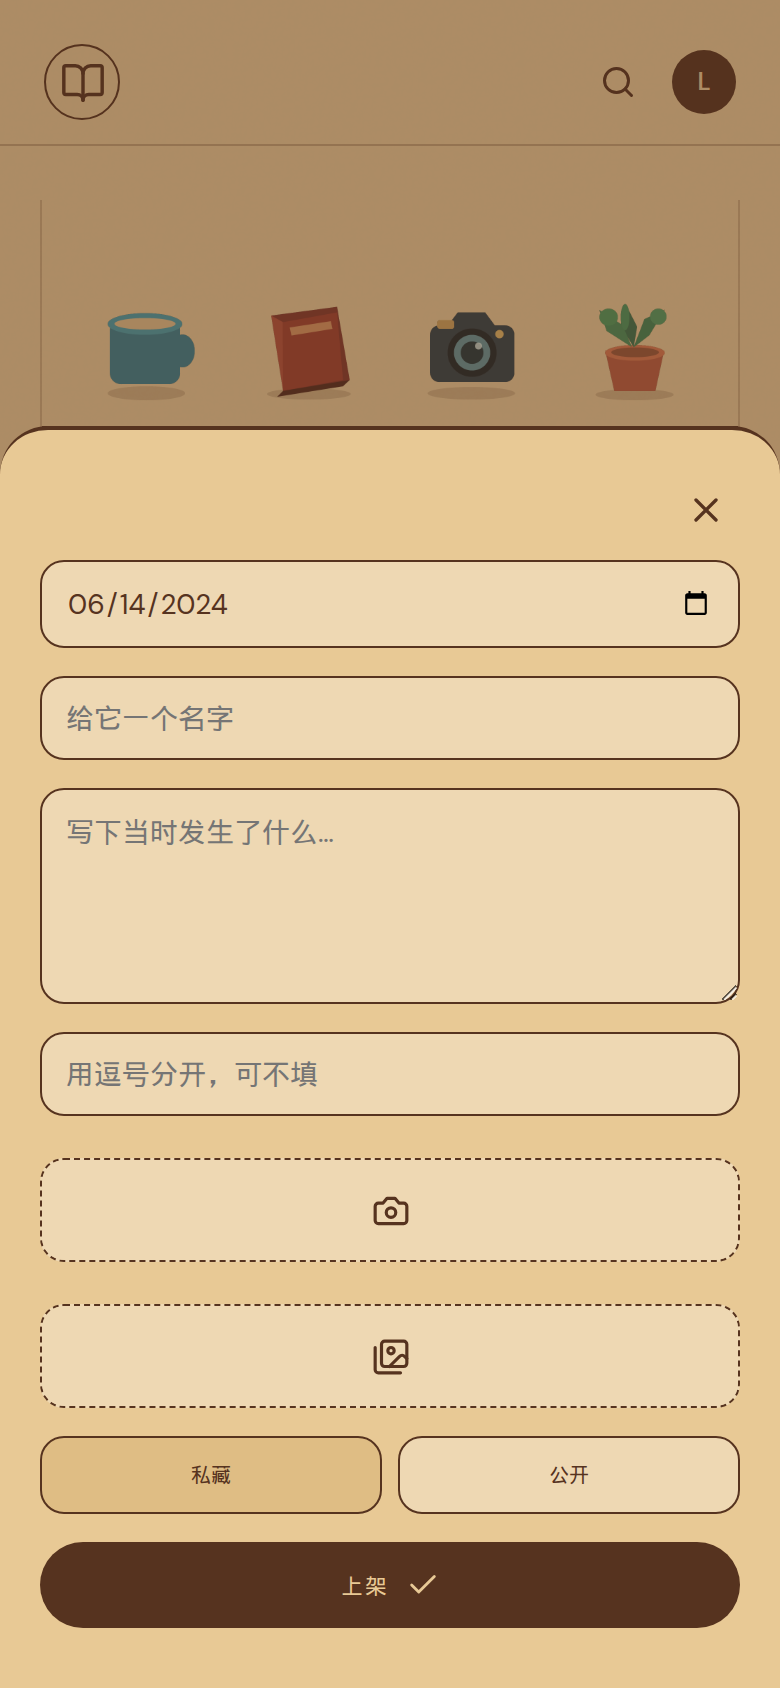
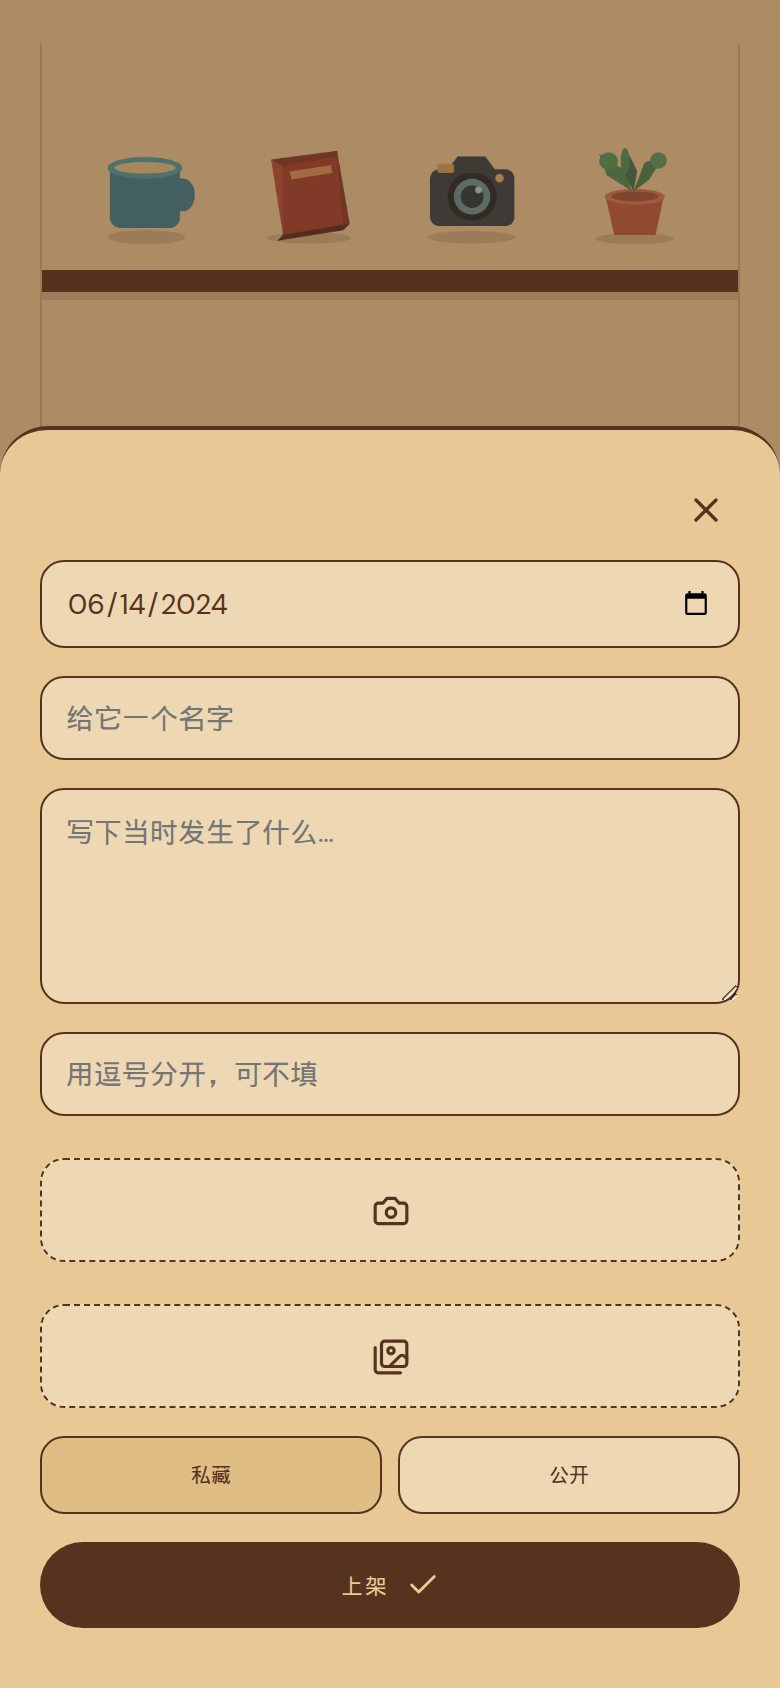
fix: show book/search header only on the shelf
Keep the top bar off album, friends, me, chronicle, parchment, and the add sheet. Drop the L avatar from chrome, put settings next to logout on Me, and place add-friend beside name search on Friends.

diff --git a/app/page.tsx b/app/page.tsx
@@ -12,7 +12,6 @@ import {
   Images,
   Layers,
   LogOut,
-  Mail,
   MessageCircle,
   Plus,
   Search,
@@ -69,7 +68,31 @@ export default function Home() {
     setShelfObjects((current) => [item, ...current]);
     setStories((current) => [story, ...current]);
   };
-  return <main className="app-shell"><header className="topbar"><Brand onBook={() => { setTimeline(true); setTab("shelf"); }}/><div className="top-actions"><button className="round-action" aria-label="搜索" onClick={() => notify("搜索功能即将开放")}><Search size={18}/></button><button className="avatar" onClick={() => setTab("me")} aria-label="打开个人资料">L</button></div></header><div className="content-area">{timeline ? <TimelineView stories={stories} onOpen={openReader} onBack={() => setTimeline(false)} /> : tab === "shelf" ? <ShelfView items={shelfObjects} stories={stories} onOpen={openReader} onAdd={() => setShowAdd(true)} /> : tab === "gallery" ? <GalleryView stories={stories} onOpen={openReader} commentStory={commentStory} setCommentStory={setCommentStory} notify={notify}/> : tab === "friends" ? <FriendsView notify={notify}/> : <MeView notify={notify}/>}</div><nav className="bottom-nav" aria-label="主导航"><NavItem active={tab === "shelf" && !timeline} icon={<Layers size={20}/>} label="打开首页" onClick={() => { setTab("shelf"); setTimeline(false); }}/><NavItem active={tab === "gallery"} icon={<Images size={20}/>} label="打开相册" onClick={() => { setTab("gallery"); setTimeline(false); }}/><button className="add-button" onClick={() => setShowAdd(true)} aria-label="新增物品"><Plus size={24}/></button><NavItem active={tab === "friends"} icon={<Users size={20}/>} label="打开朋友" onClick={() => { setTab("friends"); setTimeline(false); }}/><NavItem active={tab === "me"} icon={<CircleUserRound size={20}/>} label="打开个人资料" onClick={() => { setTab("me"); setTimeline(false); }}/></nav>{showAdd && <AddStory onClose={() => setShowAdd(false)} onAdd={addStory} notify={notify}/>} {notice && <div className="toast"><Check size={16}/> {notice}</div>}</main>;
+  const showShelfHeader = tab === "shelf" && !timeline && !showAdd;
+  return (
+    <main className={`app-shell${showShelfHeader ? "" : " app-shell-plain"}`}>
+      {showShelfHeader && (
+        <header className="topbar">
+          <Brand onBook={() => { setTimeline(true); setTab("shelf"); }} />
+          <div className="top-actions">
+            <button className="round-action" aria-label="搜索" onClick={() => notify("搜索功能即将开放")}><Search size={18} /></button>
+          </div>
+        </header>
+      )}
+      <div className="content-area">
+        {timeline ? <TimelineView stories={stories} onOpen={openReader} onBack={() => setTimeline(false)} /> : tab === "shelf" ? <ShelfView items={shelfObjects} stories={stories} onOpen={openReader} onAdd={() => setShowAdd(true)} /> : tab === "gallery" ? <GalleryView stories={stories} onOpen={openReader} commentStory={commentStory} setCommentStory={setCommentStory} notify={notify} /> : tab === "friends" ? <FriendsView notify={notify} /> : <MeView notify={notify} />}
+      </div>
+      <nav className="bottom-nav" aria-label="主导航">
+        <NavItem active={tab === "shelf" && !timeline} icon={<Layers size={20} />} label="打开首页" onClick={() => { setTab("shelf"); setTimeline(false); }} />
+        <NavItem active={tab === "gallery"} icon={<Images size={20} />} label="打开相册" onClick={() => { setTab("gallery"); setTimeline(false); }} />
+        <button className="add-button" onClick={() => setShowAdd(true)} aria-label="新增物品"><Plus size={24} /></button>
+        <NavItem active={tab === "friends"} icon={<Users size={20} />} label="打开朋友" onClick={() => { setTab("friends"); setTimeline(false); }} />
+        <NavItem active={tab === "me"} icon={<CircleUserRound size={20} />} label="打开个人资料" onClick={() => { setTab("me"); setTimeline(false); }} />
+      </nav>
+      {showAdd && <AddStory onClose={() => setShowAdd(false)} onAdd={addStory} notify={notify} />}
+      {notice && <div className="toast"><Check size={16} /> {notice}</div>}
+    </main>
+  );
 }
 
 function chunkRows(items: ShelfObject[]) {
@@ -147,10 +170,10 @@ function FriendsView({ notify }: { notify: (message: string) => void }) {
   ];
   return (
     <section className="view friends-view" aria-label="朋友">
-      <div className="view-heading view-heading-end">
-        <button className="add-friend" onClick={() => notify("邀请链接已复制")} aria-label="邀请"><UserPlus size={17} /></button>
+      <div className="friends-toolbar">
+        <button className="add-friend" onClick={() => notify("邀请链接已复制")} aria-label="邀请"><UserPlus size={18} /></button>
+        <div className="search-field"><Search size={17} /><input value={query} onChange={(e) => setQuery(e.target.value)} placeholder="搜索姓名" aria-label="搜索姓名" /></div>
       </div>
-      <div className="search-field"><Search size={17} /><input value={query} onChange={(e) => setQuery(e.target.value)} placeholder="搜索姓名" aria-label="搜索姓名" /></div>
       <div className="friend-list">
         {people.filter((p) => `${p.name} ${p.handle}`.toLowerCase().includes(query.toLowerCase())).map((person) => (
           <div className="friend-row" key={person.handle}>
@@ -167,11 +190,7 @@ function FriendsView({ notify }: { notify: (message: string) => void }) {
 function MeView({ notify }: { notify: (message: string) => void }) {
   return (
     <section className="view me-view" aria-label="个人资料">
-      <div className="view-heading view-heading-end">
-        <button className="icon-button" onClick={() => notify("设置功能即将开放")} aria-label="设置"><Settings size={19} /></button>
-      </div>
       <div className="profile-card">
-        <span className="profile-avatar">L</span>
         <div><h2>Laura Hanjing</h2><p>@laura · 2024</p></div>
         <button className="quiet-button" onClick={() => notify("资料编辑功能即将开放")}>编辑</button>
       </div>
@@ -181,7 +200,7 @@ function MeView({ notify }: { notify: (message: string) => void }) {
         <div><strong>04</strong><span>朋友</span></div>
       </div>
       <div className="settings-list">
-        <button onClick={() => notify("邮箱已验证")}><Mail size={18} /><span>laura@example.com</span><Check size={17} /></button>
+        <button onClick={() => notify("设置功能即将开放")}><Settings size={18} /><span>设置</span><ChevronRight size={17} /></button>
         <button onClick={() => signOut({ callbackUrl: "/login" })}><LogOut size={18} /><span>退出</span><ChevronRight size={17} /></button>
       </div>
     </section>

diff --git a/app/globals.css b/app/globals.css
@@ -477,7 +477,11 @@ body{font-family:'DM Sans','Noto Sans SC',sans-serif}
 .add-sheet .visibility{display:grid;grid-template-columns:1fr 1fr;gap:8px}
 .add-sheet .visibility button{padding:12px;text-align:center}
 .upload-box{justify-content:center;min-height:52px}
-.toast{bottom:108px}
+.friends-toolbar{display:flex;align-items:center;gap:10px;margin:0 0 6px}
+.friends-toolbar .add-friend{flex:none;padding:8px 2px;min-width:36px;min-height:36px}
+.friends-toolbar .search-field{flex:1;min-width:0;margin:0;padding:10px 0 8px}
+.me-view .profile-card{margin-top:4px}
+.app-shell-plain .content-area{padding-top:22px}
 @media(min-width:721px){
   .bottom-nav,.shell .bottom-nav{bottom:22px}
   .app-shell,.shell{padding-bottom:126px}

diff --git a/design.md b/design.md
@@ -6,13 +6,13 @@
 
 以下七个入口组成 MVP 的完整路径。入口名称是设计与代码约定；实际界面只保留必要的图标和短文案，并继续遵守本文的禁词规则。
 
-1. **架子（首页）**：首页只陈列扣好的透明物品，每行固定四格且格内无字。每个物格点击后进入同一条记录的羊皮纸详情。
-2. **书图标 → 年表**：顶栏书图标打开按发现时间回看的年表。年表按日期展示记录，不使用「时间线」等禁词大标题；返回后回到原来的首页位置。
-3. **羊皮纸详情**：详情纵向居中，顶端展示 `objectImage`，中段展示日期、短标题和正文 `content`，下方展示一张或多张现场照片 `storyImages`。文字与配图区域可继续向下滚动；只在顶栏左侧保留返回图标。
-4. **相册**：公开趣事组成两列、自适应高度的 masonry 照片帖，只使用 `storyImages`，不展示扣物 `objectImage`。帖子的图片上方、简短文字下方保持 kraft 卡片样式。
-5. **+ 新增**：新增流程依次完成：选择或拍摄物图并自动扣图得到 `objectImage`；另选或拍摄一张或多张现场照片作为 `storyImages`；填写日期、短标题、正文 `content`、参与好友及公开/私藏；提交后同时上架物品并生成关联 Story，公开 Story 进入相册。新增面板几乎无字：不放「放上一件」「新增物品」或其他装饰性大标题/分区标题；保留输入占位、日期控件、公开/私藏选项和「上架」主按钮。
-6. **朋友**：提供好友列表与邀请。页面不放「朋友」等分区大标题或邀请营销文案，以列表、搜索和操作图标为主。
-7. **我的**：提供个人资料与退出操作。页面不放「我的」等分区大标题，不堆叠宣传句。
+1. **架子（首页）**：首页只陈列扣好的透明物品，每行固定四格且格内无字。每个物格点击后进入同一条记录的羊皮纸详情。书图标和搜索只出现在这一页的顶栏；不要圆形字母头像。
+2. **书图标 → 年表**：仅架子首页顶栏的书图标打开按发现时间回看的年表。年表页本身不再显示书/搜索顶栏，只保留返回。不使用「时间线」等禁词大标题；返回后回到原来的首页位置。
+3. **羊皮纸详情**：详情纵向居中，顶端展示 `objectImage`，中段展示日期、短标题和正文 `content`，下方展示一张或多张现场照片 `storyImages`。文字与配图区域可继续向下滚动；只在顶栏左侧保留返回图标，不显示架子首页那条书/搜索顶栏。
+4. **相册**：公开趣事组成两列、自适应高度的 masonry 照片帖，只使用 `storyImages`，不展示扣物 `objectImage`。帖子的图片上方、简短文字下方保持 kraft 卡片样式。相册页不显示架子首页那条顶栏。
+5. **+ 新增**：新增流程依次完成：选择或拍摄物图并自动扣图得到 `objectImage`；另选或拍摄一张或多张现场照片作为 `storyImages`；填写日期、短标题、正文 `content`、参与好友及公开/私藏；提交后同时上架物品并生成关联 Story，公开 Story 进入相册。新增面板几乎无字：不放「放上一件」「新增物品」或其他装饰性大标题/分区标题；保留输入占位、日期控件、公开/私藏选项和「上架」主按钮。面板打开时不显示架子首页那条顶栏。
+6. **朋友**：提供好友列表与邀请。页面不放「朋友」等分区大标题或邀请营销文案，也不显示架子首页顶栏。加好友图标与按姓名搜索放在同一行。
+7. **我的**：提供个人资料、设置与退出。页面不放「我的」等分区大标题，不显示架子首页顶栏，也不用圆形字母头像作为入口。设置与退出作为同一组列表行。
 
 ### 统一数据关系
 
@@ -34,11 +34,12 @@
 ## 主页与物格
 
 - 主页以 kraft 木架和物品图片为主，页眉尽量只保留图标，不堆叠品牌或功能文字。
+- 书图标 + 搜索这一条顶栏只出现在架子首页；相册、朋友、我的、年表、羊皮纸详情和新增面板都不得再渲染这条顶栏，也不使用圆形字母头像作为 chrome 入口。
+- 左上角书图标只负责打开年表，`aria-label` 固定为「打开年表」，不要设置 `title` 悬停提示。年表页不显示「时间线」标题或其他禁词。
 - 架子是固定四列的网格：每一行恰好 4 个格位（row size = 4）。物不足四件时保留空格，不改变列数；窄屏也保持四格，可横向滚动或缩小格位。
 - 架子上的物品是从照片中扣出的透明 PNG，不是照片方块：图片使用 `object-fit: contain`，底边对齐木架，去掉相框和 `cover` 裁切，让物品像实物一样立在格内。架上不显示任何文字。
 - 每个格位只显示物品图。格内不得显示日期、标题、参与人、状态角标、件数或任何辅助文字；不要把图片做成带字海报。示例数据一开始就提供至少 6–8 行（每行 4 格，共 24–32 件）`cutout: true` 的透明物品，数量足够时可继续向下无限加载更多样例/占位物；相册仍只使用原始现场照片帖。
 - 点击物格进入羊皮纸详情页/层。物格本身是唯一入口，需有足够大的点击区域和清晰的键盘焦点。
-- 左上角书图标只负责打开年表，`aria-label` 固定为「打开年表」，不要设置 `title` 悬停提示。年表页不显示「时间线」标题或其他禁词。
 
 ## 羊皮纸详情
 
@@ -83,11 +84,11 @@
 ## 验收清单
 
 1. 打开主页时看到的是立在 kraft 木架上的透明扣物网格；每一行固定 4 个物格，初始至少 6–8 行样例；物品 `contain` 且底对齐，格内无日期、标题、参与人、角标、件数或其他文字。数量足够时继续向下滚动会加载更多物格，底栏保持固定。
-2. 页眉尽量无字；左上角书图标的 `aria-label` 固定为「打开年表」，没有 `title` 悬停提示。
-3. 点击书图标进入年表；页面不显示「时间线」大标题，页面可见标题和控件不包含全部禁词，从年表返回后仍回到主页网格。
+2. 书图标 + 搜索顶栏只出现在架子首页，没有圆形字母头像；书图标的 `aria-label` 固定为「打开年表」，没有 `title` 悬停提示。相册、朋友、我的、年表、羊皮纸和新增面板都不显示这条顶栏。
+3. 点击书图标进入年表；页面不显示「时间线」大标题，也不再显示架子首页顶栏，页面可见标题和控件不包含全部禁词，从年表返回后仍回到主页网格。
 4. 点击物格进入 kraft 羊皮纸详情，按「上物、中间文字、下方趣事配图」顺序显示 `objectImage`、日期/短标题/正文和一张或多张 `storyImages`；详情默认纵向居中，文字与趣事配图区可向下滚动；仅保留顶部左箭头返回，不再显示底部白色「返回」按钮，也不使用旧翻页 reader。
-5. 相册是两列自适应高度的照片帖子 masonry，卡片为 kraft 圆角，上图下文且不出现品牌名、大标题或分组宣传文案。
+5. 相册是两列自适应高度的照片帖子 masonry，卡片为 kraft 圆角，上图下文且不出现品牌名、大标题、分组宣传文案或架子首页顶栏。
 6. 底部导航只显示五个图标（中间为 `+`），不显示任何文字标签；每个图标有合适的 `aria-label`，且名称不含禁词。视觉为完整连续的奶油色椭圆底栏，中间 `+` 作为独立圆按钮叠在条上，条内无大块顶部留白，也没有凹槽。
 7. 全部用户可见文案、`aria-label`、`title` 属性和空状态文案都不包含 `收藏`、`展架`、`史书`、`物语了`、`时间线`。
 8. 通过 `+` 拍照或选图后，默认进入自动扣图；透明 PNG 预览完成后可以作为 `objectImage` 加入四列网格，关联的现场照片作为 `storyImages` 出现在详情文字下方和相册中。
-9. 新增面板、朋友、我的等 chrome 不出现装饰性大标题或营销句；表单仍可用占位文字、日期、公开/私藏和「上架」完成提交。
+9. 新增面板、朋友、我的等 chrome 不出现装饰性大标题或营销句；表单仍可用占位文字、日期、公开/私藏和「上架」完成提交。朋友页加好友图标与搜索同一行；我的页设置与退出同组列表，不用圆形字母头像当入口。
